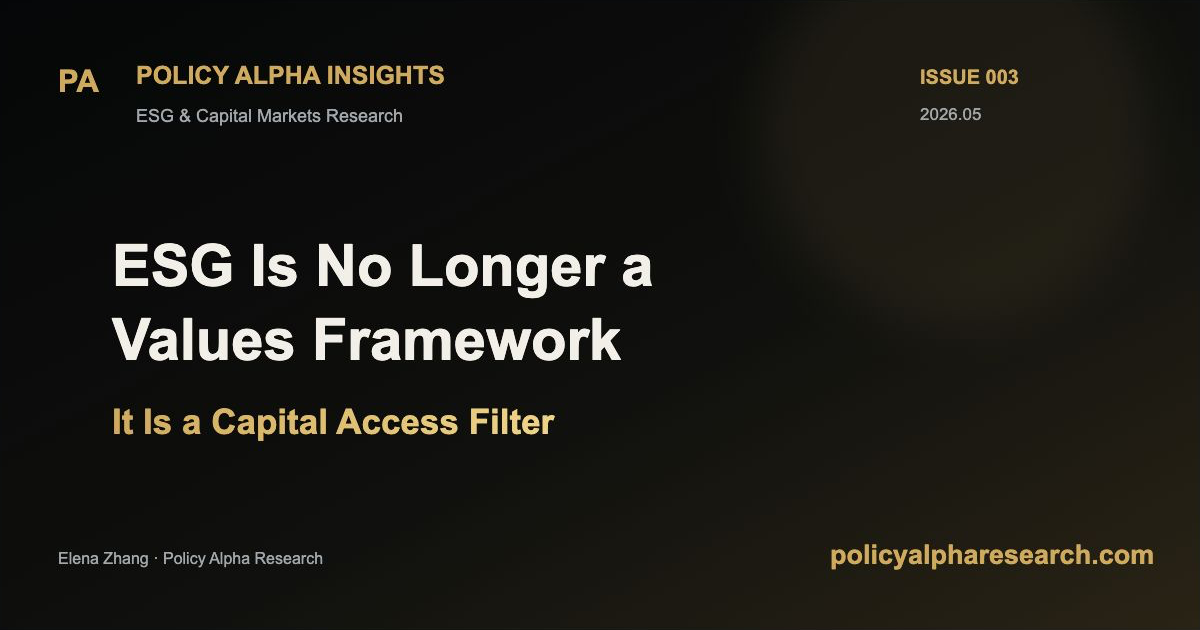
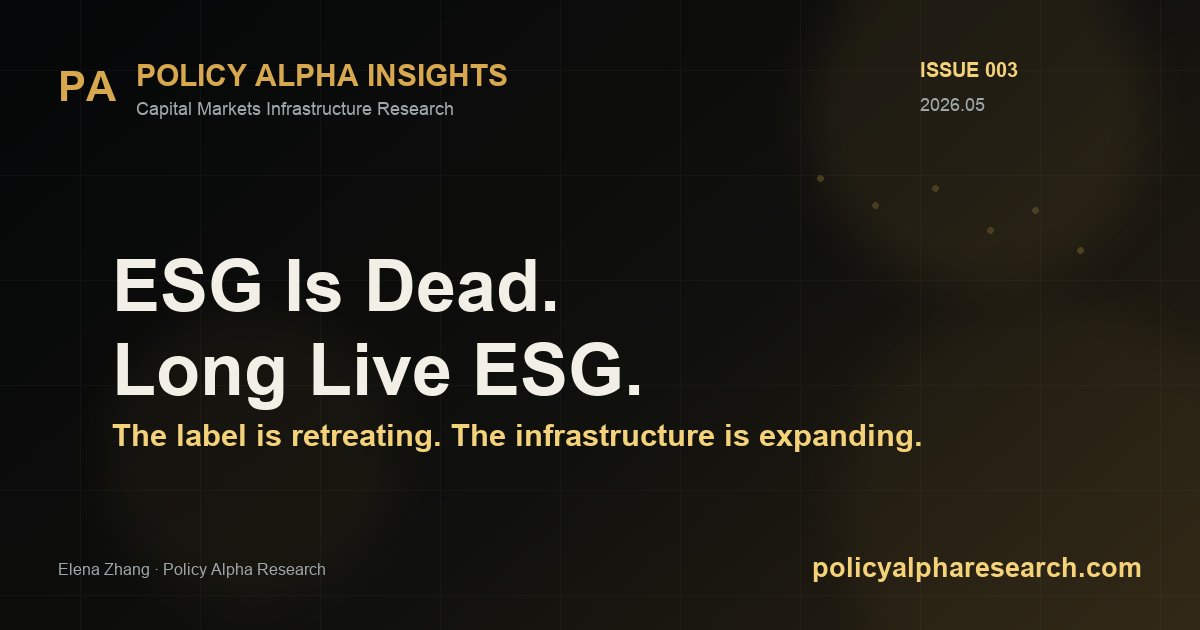
Add files via upload

diff --git a/script.js b/script.js
@@ -577,19 +577,19 @@ if (!document.querySelector(".article-shell")) {
 
 const latestInsight = isChinesePage
   ? {
-      id: "esg-capital-access-20260524",
+      id: "esg-dead-long-live-esg-20260525",
       label: "New Insight",
-      title: "ESG 不再只是价值观框架，它正在成为资本准入过滤器",
-      summary: "ESG 正在成为横跨监管、供应链、融资成本和机构资本的市场准入系统。",
+      title: "ESG 已死，但 ESG 仍在扩张",
+      summary: "标签正在退潮，基础设施却仍在扩张。这种分化，可能定义未来十年的资本配置逻辑。",
       primary: "阅读文章",
       secondary: "稍后再看",
       url: "articles/zh-esg-is-no-longer-a-values-framework.html",
     }
   : {
-      id: "esg-capital-access-20260524",
+      id: "esg-dead-long-live-esg-20260525",
       label: "New Insight",
-      title: "ESG Is No Longer a Values Framework. It Is a Capital Access Filter.",
-      summary: "ESG is becoming a market access system across regulation, supply chains, financing cost, and institutional capital.",
+      title: "ESG Is Dead. Long Live ESG.",
+      summary: "The label is retreating. The infrastructure is expanding. That distinction may define the next decade of capital allocation.",
       primary: "Read Note",
       secondary: "Later",
       url: "articles/esg-is-no-longer-a-values-framework.html",
@@ -597,8 +597,28 @@ const latestInsight = isChinesePage
 
 function showInsightUpdate() {
   if (!document.body || window.location.hash === "#insights") return;
-  const storageKey = `policy-alpha-seen-${latestInsight.id}-${isChinesePage ? "zh" : "en"}`;
-  if (window.localStorage?.getItem(storageKey) === "1") return;
+  const languageKey = isChinesePage ? "zh" : "en";
+  const storageKey = `policy-alpha-insight-update-seen-${languageKey}`;
+  const legacyStorageKey = `policy-alpha-seen-${latestInsight.id}-${languageKey}`;
+  const hasSeenAnyInsightUpdate = () => {
+    try {
+      if (window.localStorage?.getItem(storageKey) === "1") return true;
+      if (window.localStorage?.getItem(legacyStorageKey) === "1") return true;
+      return Object.keys(window.localStorage || {}).some(
+        (key) => key.startsWith("policy-alpha-seen-") && key.endsWith(`-${languageKey}`),
+      );
+    } catch {
+      return false;
+    }
+  };
+  const markInsightUpdateSeen = () => {
+    try {
+      window.localStorage?.setItem(storageKey, "1");
+      window.localStorage?.setItem(legacyStorageKey, "1");
+    } catch {}
+  };
+
+  if (hasSeenAnyInsightUpdate()) return;
 
   const overlay = document.createElement("div");
   overlay.className = "insight-update";
@@ -619,7 +639,7 @@ function showInsightUpdate() {
   `;
 
   const close = () => {
-    window.localStorage?.setItem(storageKey, "1");
+    markInsightUpdateSeen();
     overlay.classList.remove("is-visible");
     window.setTimeout(() => overlay.remove(), 180);
   };
@@ -627,7 +647,7 @@ function showInsightUpdate() {
   overlay.querySelector(".insight-update-close").addEventListener("click", close);
   overlay.querySelector(".insight-update-actions .button.quiet").addEventListener("click", close);
   overlay.querySelector(".insight-update-actions a").addEventListener("click", () => {
-    window.localStorage?.setItem(storageKey, "1");
+    markInsightUpdateSeen();
   });
   overlay.addEventListener("click", (event) => {
     if (event.target === overlay) close();

diff --git a/articles/esg-is-no-longer-a-values-framework.html b/articles/esg-is-no-longer-a-values-framework.html
@@ -11,7 +11,7 @@
     <meta name="robots" content="index, follow, max-image-preview:large" />
     <meta name="author" content="Elena Zhang" />
     <meta name="keywords" content="ESG capital access, CSRD, CBAM, EU Green Bond Standard, Scope 3 emissions, supply chain ESG, cost of capital, Policy Alpha Research" />
-    <link rel="image_src" href="https://policyalpharesearch.com/assets/social/esg-capital-access-share-card.png" />
+    <link rel="image_src" href="https://policyalpharesearch.com/assets/social/esg-capital-access-share-card.png?v=20260525-esg-dead" />
     <link rel="canonical" href="https://policyalpharesearch.com/articles/esg-is-no-longer-a-values-framework.html" />
     <link rel="alternate" hreflang="en" href="https://policyalpharesearch.com/articles/esg-is-no-longer-a-values-framework.html" />
     <link rel="alternate" hreflang="zh-CN" href="https://policyalpharesearch.com/articles/zh-esg-is-no-longer-a-values-framework.html" />
@@ -24,14 +24,14 @@
     <meta property="og:url" content="https://policyalpharesearch.com/articles/esg-is-no-longer-a-values-framework.html" />
     <meta property="og:title" content="ESG Is Dead. Long Live ESG." />
     <meta property="og:description" content="The label is retreating. The infrastructure is expanding. That distinction may define the next decade of capital allocation." />
-    <meta property="og:image" content="https://policyalpharesearch.com/assets/social/esg-capital-access-share-card.png" />
-    <meta property="og:image:secure_url" content="https://policyalpharesearch.com/assets/social/esg-capital-access-share-card.png" />
+    <meta property="og:image" content="https://policyalpharesearch.com/assets/social/esg-capital-access-share-card.png?v=20260525-esg-dead" />
+    <meta property="og:image:secure_url" content="https://policyalpharesearch.com/assets/social/esg-capital-access-share-card.png?v=20260525-esg-dead" />
     <meta property="og:image:type" content="image/png" />
     <meta property="og:image:width" content="1200" />
     <meta property="og:image:height" content="630" />
     <meta itemprop="name" content="ESG Is Dead. Long Live ESG." />
     <meta itemprop="description" content="The label is retreating while the infrastructure of sustainability metrics, risk pricing, procurement standards, and capital allocation expands." />
-    <meta itemprop="image" content="https://policyalpharesearch.com/assets/social/esg-capital-access-share-card.png" />
+    <meta itemprop="image" content="https://policyalpharesearch.com/assets/social/esg-capital-access-share-card.png?v=20260525-esg-dead" />
     <meta property="article:author" content="Elena Zhang" />
     <meta property="article:published_time" content="2026-05-24" />
     <meta property="article:section" content="ESG and Capital Markets" />
@@ -43,7 +43,7 @@
     <meta name="twitter:card" content="summary_large_image" />
     <meta name="twitter:title" content="ESG Is Dead. Long Live ESG." />
     <meta name="twitter:description" content="The label is retreating while the infrastructure is expanding across capital allocation, regulation, supply chains, and risk pricing." />
-    <meta name="twitter:image" content="https://policyalpharesearch.com/assets/social/esg-capital-access-share-card.png" />
+    <meta name="twitter:image" content="https://policyalpharesearch.com/assets/social/esg-capital-access-share-card.png?v=20260525-esg-dead" />
     <link rel="icon" href="/favicon.ico" sizes="any" />
     <link rel="icon" href="/favicon-48x48.png" type="image/png" sizes="48x48" />
     <link rel="shortcut icon" href="/favicon.ico" />
@@ -65,7 +65,7 @@
         "@type": "Article",
         "headline": "ESG Is Dead. Long Live ESG.",
         "description": "The label is retreating. The infrastructure is expanding. That distinction may define the next decade of capital allocation.",
-        "image": "https://policyalpharesearch.com/assets/social/esg-capital-access-share-card.png",
+        "image": "https://policyalpharesearch.com/assets/social/esg-capital-access-share-card.png?v=20260525-esg-dead",
         "datePublished": "2026-05-24",
         "dateModified": "2026-05-24",
         "author": {

diff --git a/articles/zh-esg-is-no-longer-a-values-framework.html b/articles/zh-esg-is-no-longer-a-values-framework.html
@@ -11,7 +11,7 @@
     <meta name="robots" content="index, follow, max-image-preview:large" />
     <meta name="author" content="Elena Zhang" />
     <meta name="keywords" content="ESG, 资本准入, CSRD, CBAM, 欧盟绿色债券标准, Scope 3, 供应链 ESG, 融资成本, Policy Alpha Research" />
-    <link rel="image_src" href="https://policyalpharesearch.com/assets/social/zh-esg-capital-access-share-card.png" />
+    <link rel="image_src" href="https://policyalpharesearch.com/assets/social/zh-esg-capital-access-share-card.png?v=20260525-esg-dead" />
     <link rel="canonical" href="https://policyalpharesearch.com/articles/zh-esg-is-no-longer-a-values-framework.html" />
     <link rel="alternate" hreflang="en" href="https://policyalpharesearch.com/articles/esg-is-no-longer-a-values-framework.html" />
     <link rel="alternate" hreflang="zh-CN" href="https://policyalpharesearch.com/articles/zh-esg-is-no-longer-a-values-framework.html" />
@@ -24,14 +24,14 @@
     <meta property="og:url" content="https://policyalpharesearch.com/articles/zh-esg-is-no-longer-a-values-framework.html" />
     <meta property="og:title" content="ESG 已死，但 ESG 仍在扩张" />
     <meta property="og:description" content="ESG 可能正在输掉公共舆论战争，但它正在赢下资本市场的基础设施战争。" />
-    <meta property="og:image" content="https://policyalpharesearch.com/assets/social/zh-esg-capital-access-share-card.png" />
-    <meta property="og:image:secure_url" content="https://policyalpharesearch.com/assets/social/zh-esg-capital-access-share-card.png" />
+    <meta property="og:image" content="https://policyalpharesearch.com/assets/social/zh-esg-capital-access-share-card.png?v=20260525-esg-dead" />
+    <meta property="og:image:secure_url" content="https://policyalpharesearch.com/assets/social/zh-esg-capital-access-share-card.png?v=20260525-esg-dead" />
     <meta property="og:image:type" content="image/png" />
     <meta property="og:image:width" content="1200" />
     <meta property="og:image:height" content="630" />
     <meta itemprop="name" content="ESG 已死，但 ESG 仍在扩张" />
     <meta itemprop="description" content="标签正在退潮。基础设施却仍在扩张。这种分化，可能定义未来十年的资本配置逻辑。" />
-    <meta itemprop="image" content="https://policyalpharesearch.com/assets/social/zh-esg-capital-access-share-card.png" />
+    <meta itemprop="image" content="https://policyalpharesearch.com/assets/social/zh-esg-capital-access-share-card.png?v=20260525-esg-dead" />
     <meta property="article:author" content="Elena Zhang" />
     <meta property="article:published_time" content="2026-05-24" />
     <meta property="article:section" content="ESG 与资本市场" />
@@ -43,7 +43,7 @@
     <meta name="twitter:card" content="summary_large_image" />
     <meta name="twitter:title" content="ESG 已死，但 ESG 仍在扩张" />
     <meta name="twitter:description" content="ESG 可能正在输掉公共舆论战争，但它正在赢下资本市场的基础设施战争。" />
-    <meta name="twitter:image" content="https://policyalpharesearch.com/assets/social/zh-esg-capital-access-share-card.png" />
+    <meta name="twitter:image" content="https://policyalpharesearch.com/assets/social/zh-esg-capital-access-share-card.png?v=20260525-esg-dead" />
     <link rel="icon" href="/favicon.ico" sizes="any" />
     <link rel="icon" href="/favicon-48x48.png" type="image/png" sizes="48x48" />
     <link rel="shortcut icon" href="/favicon.ico" />
@@ -65,7 +65,7 @@
         "@type": "Article",
         "headline": "ESG 已死，但 ESG 仍在扩张",
         "description": "标签正在退潮。基础设施却仍在扩张。这种分化，可能定义未来十年的资本配置逻辑。",
-        "image": "https://policyalpharesearch.com/assets/social/zh-esg-capital-access-share-card.png",
+        "image": "https://policyalpharesearch.com/assets/social/zh-esg-capital-access-share-card.png?v=20260525-esg-dead",
         "datePublished": "2026-05-24",
         "dateModified": "2026-05-24",
         "author": {

diff --git a/articles.html b/articles.html
@@ -21,16 +21,16 @@
     <meta property="og:title" content="Policy Alpha Insights" />
     <meta property="og:description" content="Research notes on ESG capital access, AI infrastructure, critical minerals, policy regimes, strategic assets, and portfolio implications." />
     <meta property="og:url" content="https://policyalpharesearch.com/articles.html" />
-    <meta property="og:image" content="https://policyalpharesearch.com/assets/social/esg-capital-access-share-card.png" />
-    <meta property="og:image:secure_url" content="https://policyalpharesearch.com/assets/social/esg-capital-access-share-card.png" />
+    <meta property="og:image" content="https://policyalpharesearch.com/assets/social/esg-capital-access-share-card.png?v=20260525-esg-dead" />
+    <meta property="og:image:secure_url" content="https://policyalpharesearch.com/assets/social/esg-capital-access-share-card.png?v=20260525-esg-dead" />
     <meta property="og:image:type" content="image/png" />
     <meta property="og:image:width" content="1200" />
     <meta property="og:image:height" content="630" />
     <meta name="twitter:card" content="summary_large_image" />
     <meta name="twitter:title" content="Policy Alpha Insights" />
     <meta name="twitter:description" content="Research notes on ESG capital access, AI infrastructure, critical minerals, policy regimes, strategic assets, and portfolio implications." />
-    <meta name="twitter:image" content="https://policyalpharesearch.com/assets/social/esg-capital-access-share-card.png" />
-    <meta itemprop="image" content="https://policyalpharesearch.com/assets/social/esg-capital-access-share-card.png" />
+    <meta name="twitter:image" content="https://policyalpharesearch.com/assets/social/esg-capital-access-share-card.png?v=20260525-esg-dead" />
+    <meta itemprop="image" content="https://policyalpharesearch.com/assets/social/esg-capital-access-share-card.png?v=20260525-esg-dead" />
     <link rel="icon" href="/favicon.ico" sizes="any" />
     <link rel="icon" href="/favicon-48x48.png" type="image/png" sizes="48x48" />
     <link rel="shortcut icon" href="/favicon.ico" />

diff --git a/zh-articles.html b/zh-articles.html
@@ -22,16 +22,16 @@
     <meta property="og:title" content="Policy Alpha 观察" />
     <meta property="og:description" content="关于 ESG 资本准入、AI 基础设施、关键矿产、政策周期、战略资产和组合执行纪律的短篇市场研究。" />
     <meta property="og:url" content="https://policyalpharesearch.com/zh-articles.html" />
-    <meta property="og:image" content="https://policyalpharesearch.com/assets/social/zh-esg-capital-access-share-card.png" />
-    <meta property="og:image:secure_url" content="https://policyalpharesearch.com/assets/social/zh-esg-capital-access-share-card.png" />
+    <meta property="og:image" content="https://policyalpharesearch.com/assets/social/zh-esg-capital-access-share-card.png?v=20260525-esg-dead" />
+    <meta property="og:image:secure_url" content="https://policyalpharesearch.com/assets/social/zh-esg-capital-access-share-card.png?v=20260525-esg-dead" />
     <meta property="og:image:type" content="image/png" />
     <meta property="og:image:width" content="1200" />
     <meta property="og:image:height" content="630" />
     <meta name="twitter:card" content="summary_large_image" />
     <meta name="twitter:title" content="Policy Alpha 观察" />
     <meta name="twitter:description" content="关于 ESG 资本准入、AI 基础设施、关键矿产、政策周期、战略资产和组合执行纪律的短篇市场研究。" />
-    <meta name="twitter:image" content="https://policyalpharesearch.com/assets/social/zh-esg-capital-access-share-card.png" />
-    <meta itemprop="image" content="https://policyalpharesearch.com/assets/social/zh-esg-capital-access-share-card.png" />
+    <meta name="twitter:image" content="https://policyalpharesearch.com/assets/social/zh-esg-capital-access-share-card.png?v=20260525-esg-dead" />
+    <meta itemprop="image" content="https://policyalpharesearch.com/assets/social/zh-esg-capital-access-share-card.png?v=20260525-esg-dead" />
     <link rel="icon" href="/favicon.ico" sizes="any" />
     <link rel="icon" href="/favicon-48x48.png" type="image/png" sizes="48x48" />
     <link rel="shortcut icon" href="/favicon.ico" />

diff --git a/index.html b/index.html
@@ -22,11 +22,11 @@
     <meta property="og:title" content="Policy Alpha Research" />
     <meta property="og:description" content="Independent macro and equity research on ESG capital access, AI infrastructure, critical minerals, policy-driven capital flows, and portfolio construction." />
     <meta property="og:url" content="https://policyalpharesearch.com/" />
-    <meta property="og:image" content="https://policyalpharesearch.com/assets/social/esg-capital-access-share-card.png" />
+    <meta property="og:image" content="https://policyalpharesearch.com/assets/social/esg-capital-access-share-card.png?v=20260525-esg-dead" />
     <meta name="twitter:card" content="summary_large_image" />
     <meta name="twitter:title" content="Policy Alpha Research" />
     <meta name="twitter:description" content="Macro and equity research on ESG capital access, AI infrastructure, critical minerals, policy-driven capital flows, and portfolio construction." />
-    <meta name="twitter:image" content="https://policyalpharesearch.com/assets/social/esg-capital-access-share-card.png" />
+    <meta name="twitter:image" content="https://policyalpharesearch.com/assets/social/esg-capital-access-share-card.png?v=20260525-esg-dead" />
     <meta http-equiv="Cache-Control" content="no-cache, no-store, must-revalidate" />
     <meta http-equiv="Pragma" content="no-cache" />
     <meta http-equiv="Expires" content="0" />

diff --git a/zh.html b/zh.html
@@ -23,11 +23,11 @@
     <meta property="og:title" content="Policy Alpha Research | 政策宏观与权益研究" />
     <meta property="og:description" content="关注 ESG 资本准入、AI 基础设施、关键矿产、政策资金流、战略资产和组合构建的独立研究网站。" />
     <meta property="og:url" content="https://policyalpharesearch.com/zh.html" />
-    <meta property="og:image" content="https://policyalpharesearch.com/assets/social/zh-esg-capital-access-share-card.png" />
+    <meta property="og:image" content="https://policyalpharesearch.com/assets/social/zh-esg-capital-access-share-card.png?v=20260525-esg-dead" />
     <meta name="twitter:card" content="summary_large_image" />
     <meta name="twitter:title" content="Policy Alpha Research | 政策宏观与权益研究" />
     <meta name="twitter:description" content="政策宏观与权益研究，覆盖 ESG 资本准入、AI 基础设施、关键矿产、战略资产和组合构建。" />
-    <meta name="twitter:image" content="https://policyalpharesearch.com/assets/social/zh-esg-capital-access-share-card.png" />
+    <meta name="twitter:image" content="https://policyalpharesearch.com/assets/social/zh-esg-capital-access-share-card.png?v=20260525-esg-dead" />
     <meta http-equiv="Cache-Control" content="no-cache, no-store, must-revalidate" />
     <meta http-equiv="Pragma" content="no-cache" />
     <meta http-equiv="Expires" content="0" />

diff --git a/articles/lithium-is-no-longer-just-an-ev-trade.html b/articles/lithium-is-no-longer-just-an-ev-trade.html
@@ -361,7 +361,7 @@
           <div class="related-grid">
             <a href="esg-is-no-longer-a-values-framework.html">
               <span>ESG & Capital Markets Series</span>
-              <strong>ESG Is No Longer a Values Framework. It Is a Capital Access Filter.</strong>
+              <strong>ESG Is Dead. Long Live ESG.</strong>
             </a>
             <a href="the-next-ai-race-wont-be-won-by-the-smartest-model.html">
               <span>AI Infrastructure</span>

diff --git a/articles/the-next-ai-race-wont-be-won-by-the-smartest-model.html b/articles/the-next-ai-race-wont-be-won-by-the-smartest-model.html
@@ -338,7 +338,7 @@
           <div class="related-grid">
             <a href="esg-is-no-longer-a-values-framework.html">
               <span>ESG & Capital Markets Series</span>
-              <strong>ESG Is No Longer a Values Framework. It Is a Capital Access Filter.</strong>
+              <strong>ESG Is Dead. Long Live ESG.</strong>
             </a>
             <a href="lithium-is-no-longer-just-an-ev-trade.html">
               <span>Strategic Materials</span>

diff --git a/articles/zh-lithium-is-no-longer-just-an-ev-trade.html b/articles/zh-lithium-is-no-longer-just-an-ev-trade.html
@@ -339,7 +339,7 @@
           <div class="related-grid">
             <a href="zh-esg-is-no-longer-a-values-framework.html">
               <span>ESG 与资本市场系列</span>
-              <strong>ESG 不再只是价值观框架，它正在成为资本准入过滤器</strong>
+              <strong>ESG 已死，但 ESG 仍在扩张</strong>
             </a>
             <a href="zh-the-next-ai-race-wont-be-won-by-the-smartest-model.html">
               <span>AI 基础设施</span>

diff --git a/articles/zh-the-next-ai-race-wont-be-won-by-the-smartest-model.html b/articles/zh-the-next-ai-race-wont-be-won-by-the-smartest-model.html
@@ -317,7 +317,7 @@
           <div class="related-grid">
             <a href="zh-esg-is-no-longer-a-values-framework.html">
               <span>ESG 与资本市场系列</span>
-              <strong>ESG 不再只是价值观框架，它正在成为资本准入过滤器</strong>
+              <strong>ESG 已死，但 ESG 仍在扩张</strong>
             </a>
             <a href="zh-lithium-is-no-longer-just-an-ev-trade.html">
               <span>战略材料</span>

diff --git a/sw.js b/sw.js
@@ -1,4 +1,4 @@
-const CACHE_NAME = "policy-alpha-research-v34";
+const CACHE_NAME = "policy-alpha-research-v37";
 const CORE_ASSETS = [
   "/",
   "/zh.html",